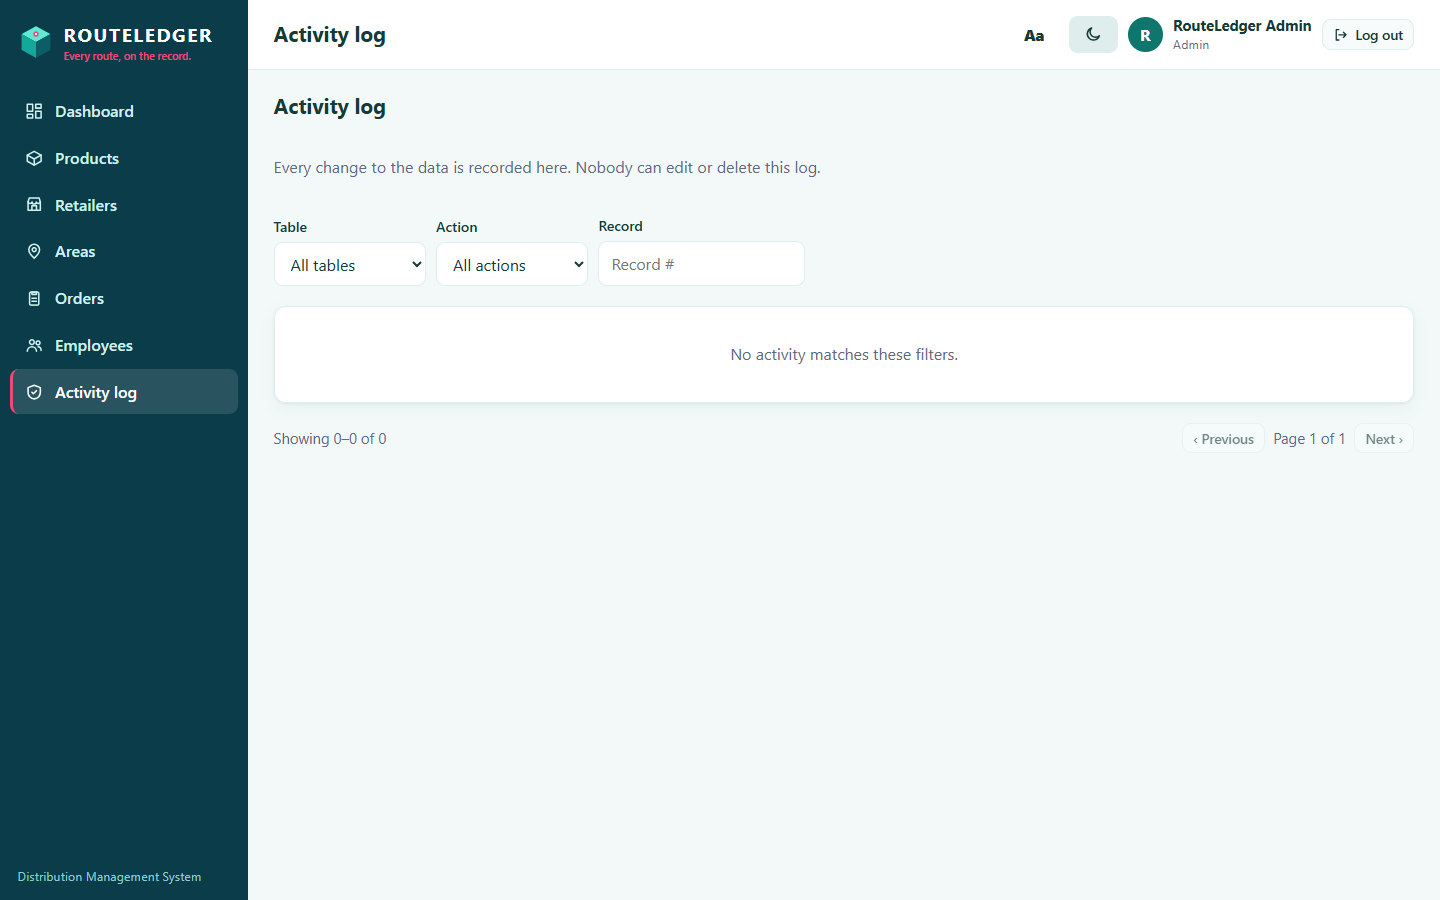
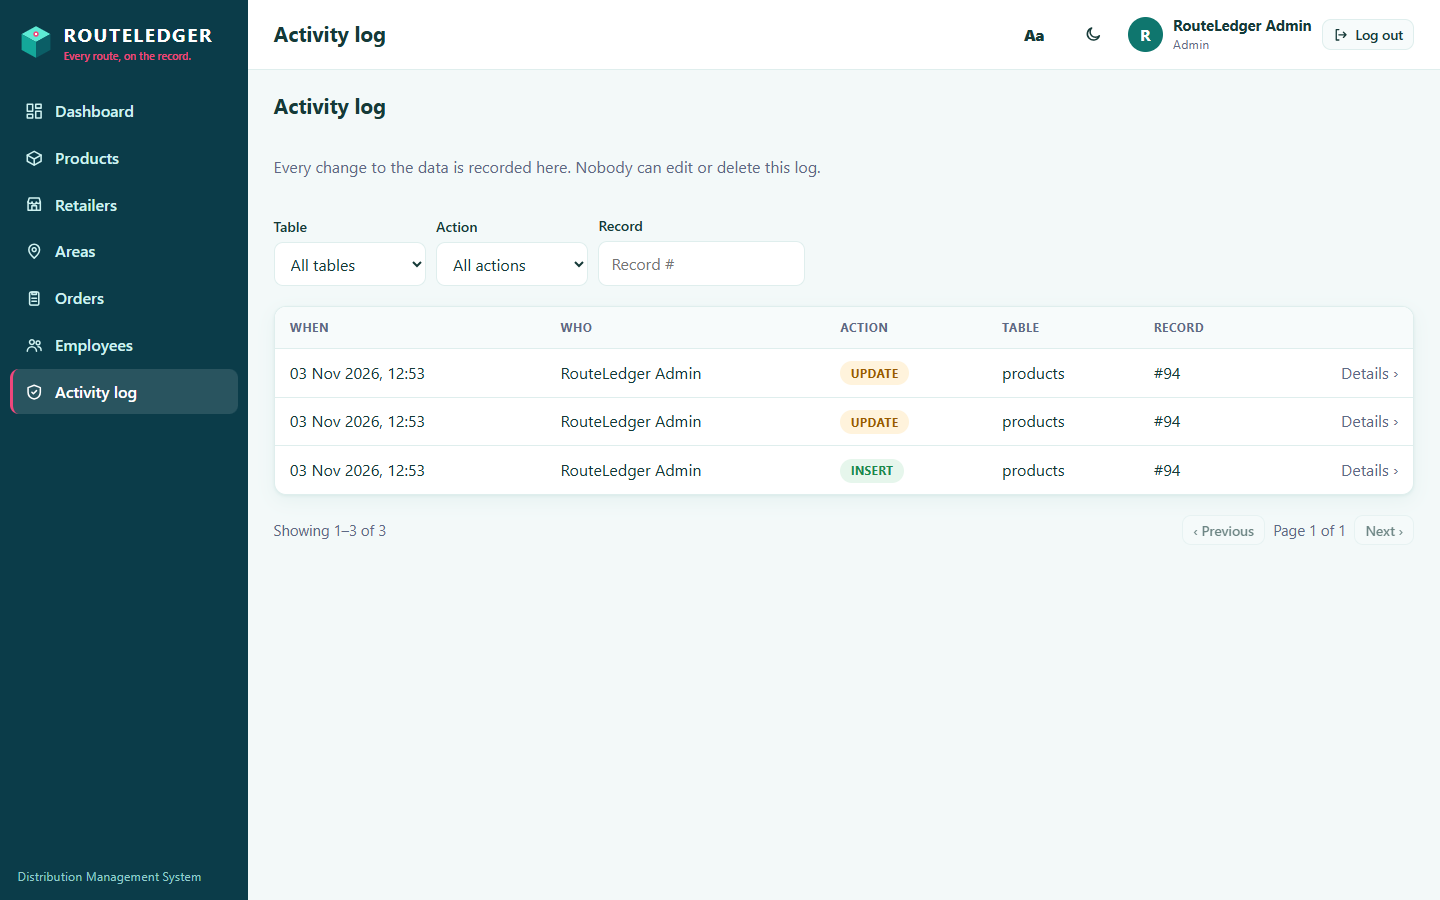
docs: add LinkedIn screenshot post and refresh audit screenshots

diff --git a/docs/linkedin/README.md b/docs/linkedin/README.md
@@ -1,0 +1,28 @@
+# LinkedIn screenshot post
+
+Upload these as a multi-image post, in this order:
+
+1. `01-login.png` — RouteLedger login and public read-only demo
+2. `02-dashboard.png` — KPI dashboard
+3. `03-orders.png` — order workflow
+4. `04-products.png` — product master data
+5. `05-audit-trail.png` — before/after audit record
+6. `06-database-erd.png` — entity-relationship diagram
+7. `07-viewer-role.png` — read-only Viewer permissions
+
+All data is synthetic.
+
+## Suggested alt text
+
+1. RouteLedger login page with a read-only demo account shown.
+2. RouteLedger dashboard with product, retailer, branch, order and sales KPIs,
+   monthly bars and category breakdown.
+3. Orders table with retailer, area, date, cartons and total filters.
+4. Products table with categories, pack sizes and prices.
+5. Audit log detail showing an update to product #94 with old and new unit price.
+6. Entity-relationship diagram for roles, employees, products, orders, order
+   items, branches and the activity log.
+7. Dashboard as a read-only Viewer; Employees and Activity log are not available.
+
+The ERD image is rendered from `docs/erd.md`. The app screenshots come from
+`docs/screenshots/`.
